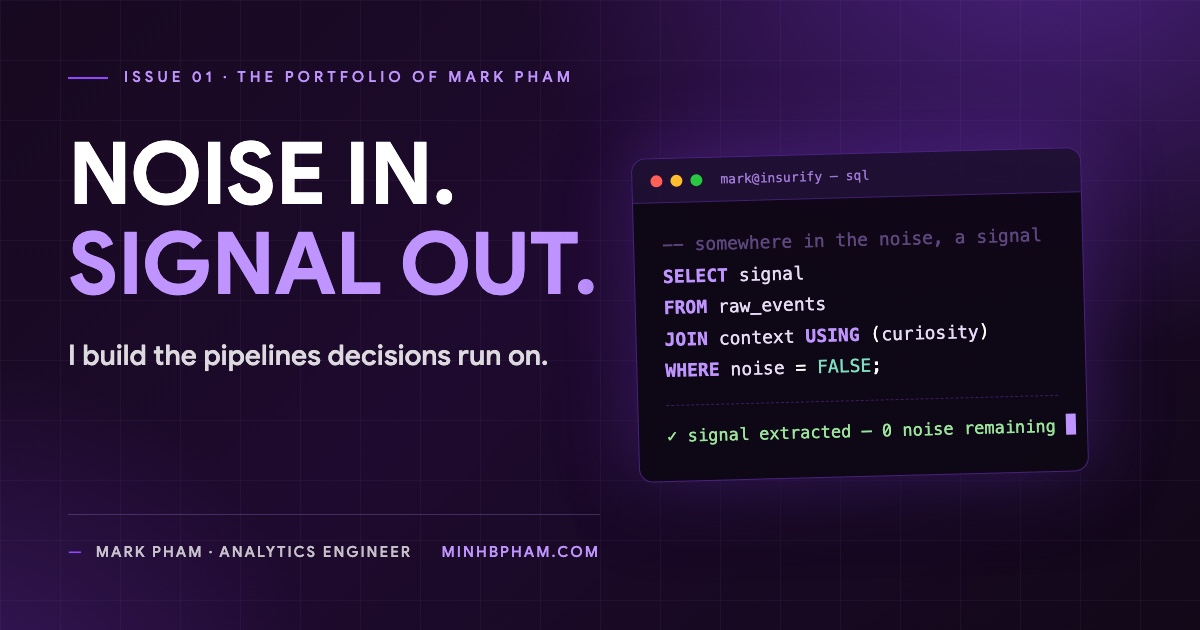
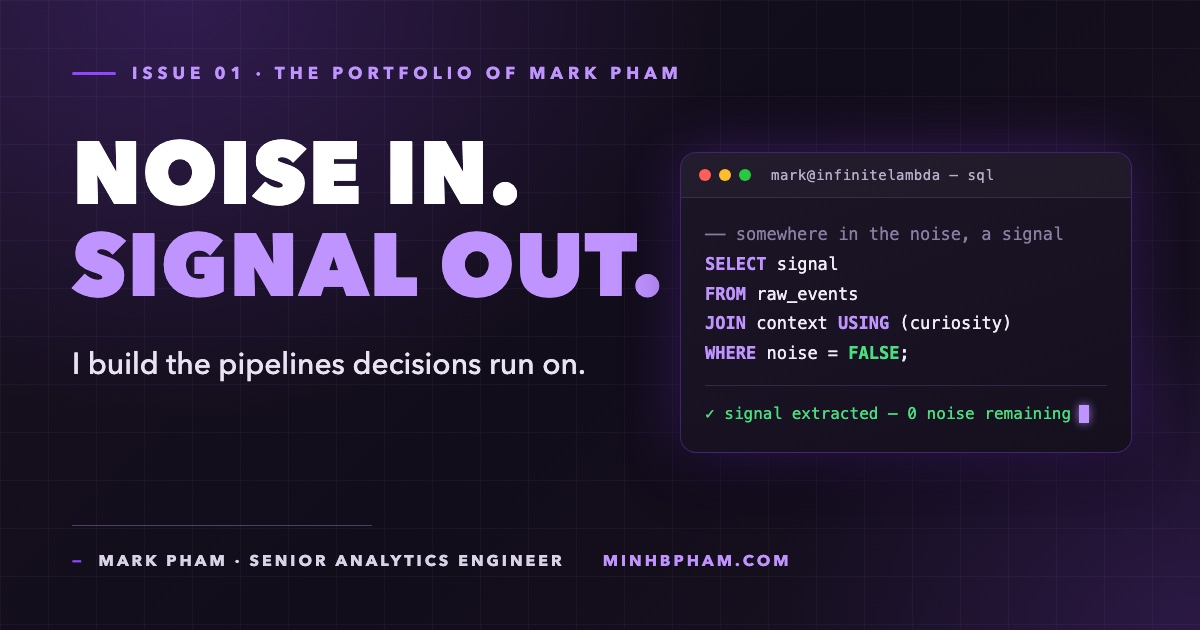
feat(career): Senior Analytics Engineer @ Infinite Lambda (v3.14.0)
- New timeline entry (October 2026, Remote) with infinitelambda.webp logo
- Hero typed strings: role + location (Boston, MA -> Remote)
- Footer identity block, JSON-LD jobTitle/worksFor, og:image alt
- Calendly slug -> calendly.com/minhbpham2003/30min (hero + footer)
- OG preview card regenerated: mark@infinitelambda terminal, senior title, ?v=4
- README byline; version bump v3.14.0

diff --git a/constants.ts b/constants.ts
@@ -375,9 +375,9 @@ export const TESTIMONIAL_THEMES: ITestimonialTheme[] = [
 
 export const TYPED_STRINGS = [
 	'<span style="color:#9146FF">1000+</span> SQL questions solved',
-	'<span style="color:#9146FF">Analytics Engineer</span> @Insurify',
+	'<span style="color:#9146FF">Senior Analytics Engineer</span> @InfiniteLambda',
 	'<span style="color:#9146FF">TCU</span> class of 2025',
-	'<span style="color:#9146FF">Boston, MA</span>',
+	'<span style="color:#9146FF">Remote</span>',
 ];
 
 export const QUOTE_STRINGS = [
@@ -773,6 +773,26 @@ export enum ItemSize {
 }
 
 export const TIMELINE: Array<TimelineNodeV2> = [
+	{
+		type: NodeTypes.CHECKPOINT,
+		title: "October 2026",
+		size: ItemSize.LARGE,
+		shouldDrawLine: false,
+		alignment: Branch.LEFT,
+	},
+	{
+		type: NodeTypes.CHECKPOINT,
+		title: "Senior Analytics Engineer - <a class='underline underline-offset-2' href='https://infinitelambda.com' target='_blank' rel='noopener noreferrer'><u>Infinite Lambda</u></a>",
+		size: ItemSize.SMALL,
+		subtitle: "Data & AI consultancy · Snowflake, dbt & Fivetran partner",
+		location: "Remote",
+		image: "/timeline/infinitelambda.webp",
+		slideImage: "/timeline/infinitelambda.webp",
+		shouldDrawLine: true,
+		alignment: Branch.LEFT,
+		companyLogo: "/timeline/infinitelambda.webp",
+		companyUrl: "https://infinitelambda.com",
+	},
 	{
 		type: NodeTypes.CHECKPOINT,
 		title: "June 2025",

diff --git a/components/common/layout.tsx b/components/common/layout.tsx
@@ -6,16 +6,16 @@ const jsonLd = {
   "@type": "Person",
   name: "Minh (Mark) Pham",
   url: METADATA.siteUrl,
-  jobTitle: "Analytics Engineer",
-  worksFor: { "@type": "Organization", name: "Insurify" },
+  jobTitle: "Senior Analytics Engineer",
+  worksFor: { "@type": "Organization", name: "Infinite Lambda" },
   sameAs: [
     "https://www.linkedin.com/in/minhbphamm/",
     "https://github.com/MarkPhamm",
   ],
 };
 
-const PREVIEW_IMAGE = `${METADATA.siteUrl}/preview.jpg?v=3`;
-const PREVIEW_ALT = "Mark Pham — Analytics Engineer bridging data and actionable insights";
+const PREVIEW_IMAGE = `${METADATA.siteUrl}/preview.jpg?v=4`;
+const PREVIEW_ALT = "Mark Pham — Senior Analytics Engineer bridging data and actionable insights";
 
 interface LayoutProps {
   children: React.ReactNode;

diff --git a/components/common/footer.tsx b/components/common/footer.tsx
@@ -96,9 +96,9 @@ const Footer = () => {
 				I bridge the gap between data and actionable insights.
 			</p>
 			<p className="text-sm text-white/80">
-				Analytics Engineer @ Insurify
+				Senior Analytics Engineer @ Infinite Lambda
 				<br />
-				Boston, MA
+				Remote
 			</p>
 		</div>
 	);
@@ -144,7 +144,7 @@ const Footer = () => {
 			<p className={COLUMN_HEADING}>Connect with me</p>
 			<div className="space-y-2.5 mb-4">
 				<a
-					href="https://calendly.com/minh-pham-insurify/30min"
+					href="https://calendly.com/minhbpham2003/30min"
 					target="_blank"
 					rel="noreferrer"
 					className={FOOTER_LINK}

diff --git a/components/common/header.tsx b/components/common/header.tsx
@@ -34,7 +34,7 @@ const Header = () => {
 							<Image src="/logo.svg" alt="Logo" width={22} height={22} />
 						</a>
 					</Link>
-					<span className="text-[10px] text-white/60 font-mono">v3.13.1</span>
+					<span className="text-[10px] text-white/60 font-mono">v3.14.0</span>
 				</div>
 				<div className="hidden md:flex items-center justify-center">
 					{NAVBARITEMS.map((item: any) => {

diff --git a/components/home/hero.tsx b/components/home/hero.tsx
@@ -321,7 +321,7 @@ const HeroSection = React.memo(() => {
 				</a>
 				<a
 					ref={coffeeCtaRef}
-					href="https://calendly.com/minh-pham-insurify/30min"
+					href="https://calendly.com/minhbpham2003/30min"
 					target="_blank"
 					rel="noreferrer"
 					onClick={() => { trackEvent("coffee_chat_click"); upgradeSession("coffee_chat_click"); }}

diff --git a/VERSION.md b/VERSION.md
@@ -2,6 +2,7 @@
 
 | Version | Date | Changes |
 |---------|------|---------|
+| v3.14.0 | 2026-08-10 | Job transition: Analytics Engineer @ Insurify → **Senior Analytics Engineer @ Infinite Lambda** (infinitelambda.com, Data & AI consultancy; start October 2026, Remote). New TIMELINE entry (Oct 2026 header + role card, `/timeline/infinitelambda.webp` — root `infinite_lambda.png` flattened to white via sips → cwebp q80, source kept per convention), hero TYPED_STRINGS role + location (`Boston, MA` → `Remote`), footer identity block, JSON-LD `jobTitle`/`worksFor`, `PREVIEW_ALT`, README byline. Calendly slug swapped to `calendly.com/minhbpham2003/30min` (hero + footer). OG card regenerated from scratch (no script survived v3.11.7): same NOISE IN. / SIGNAL OUT. design, terminal retitled `mark@infinitelambda — sql`, footer line now SENIOR ANALYTICS ENGINEER; cache-buster `?v=4`. Insurify keeps its past-role timeline entry, testimonials, and pipeline DAG untouched. TODO: `public/minh_pham_resume.pdf` still says Insurify — manual swap needed. |
 | v3.13.1 | 2026-08-10 | Remove the Bookshelf section (Mark, with a screenshot: "remove this") — the placeholder shelf never got real books and the coverless gradient spines looked unfinished. Deleted `favorite-books.tsx`, `IBook`/`FAVORITE_BOOKS` from constants, and the page wiring; filter counts now span articles + publications only. Everything else from v3.13.0 stays. |
 | v3.13.0 | 2026-08-10 | Reads page feature batch (Mark: "suggest some UI/UX improvement/new feature on the reading section" — approved all seven). **Category filter**: pill row under the hero filters all sections at once, per-category accent colors (`READ_CATEGORY_COLORS`, FOLDER_COLORS spirit), counts on each pill, empty sections hidden, `reads_filter` tracked. **"My Take" annotations**: new optional `take` field renders an italic purple `»` one-liner — hover-reveal on desktop, always visible on mobile (cards are links; tap-toggle would fight navigation). **Status badges**: new `status` field — "Currently reading" with pulsing dot, "★ Must-read". **Surprise me**: terminal chip in the hero (`$ shuf reads.txt -n 1` 🎲) smooth-scrolls to a random card and ring-pulses it. **Bookshelf**: new `FavoriteBooks` horizontal scroll-snap shelf of portrait 2/3 covers with gradient spine fallback (`FAVORITE_BOOKS` seeded with placeholders — Mark to swap in his real shelf + covers in `/public/reads/books/`). **Overflow**: publications grid caps at 6 with "Show all N →" expander; item counts next to every section heading. **Hero**: "Last updated Aug 2026" line (`READS_LAST_UPDATED`). GSAP gotcha handled: after the first filter interaction sections skip their `once` scroll-in so re-rendered cards below the fold can't stick at opacity 0. |
 | v3.12.0 | 2026-08-10 | Passion page polish sweep (Mark: "look at the passion session, suggest improvement on the UI/Design") — brings `/aboutme/passion` up to startup-page polish. **Theme-leak fixes**: scroll progress bar, text selection, and the Collaboration marquee were still purple on the orange-themed pages — now scoped orange under `.theme-orange` (marquee de-hardcoded to a `.collab-marquee` class; homepage stays purple). **Visual rhythm**: orange hairline dividers close each dish section, ambient floating orange blobs behind the content (startup parity), consistent `space-y-16` card stacking, closing-quote double-padding fixed. **Hero mobile**: h1 stepped down `text-6xl→text-4xl` base (matched startup's ramp, was wrapping 3–4 lines at 375px), `min-h-[480px]` on short phones, typed tagline container reserves wrap space so the layout stops jumping. **Interaction**: seafood cards drop the false `cursor-pointer`, gain hover-lift + orange border (captions slide up on hover); DishCards get the startup border/shadow hover treatment (pointless hover gradient deleted); filter timeout now cleaned up and filtering from deep scroll returns you to the tabs; new gradient "My Startup Story →" CTA after the quote. **A11y**: `prefers-reduced-motion` gates parallax/typed.js/reveals, `aria-pressed` filter tabs, sr-only tagline fallback, `<main>` landmark, captions/blockquote `gray-400→gray-300` for AA contrast, decorative glyphs `aria-hidden`. Plus `sizes` on DishCard images. |

diff --git a/README.md b/README.md
@@ -2,7 +2,7 @@
 
 [![License: MIT](https://img.shields.io/badge/License-MIT-yellow.svg)](https://opensource.org/licenses/MIT)
 
-Personal portfolio of **Minh (Mark) Pham**, Analytics Engineer — live at [minhbpham.com](https://minhbpham.com).
+Personal portfolio of **Minh (Mark) Pham**, Senior Analytics Engineer — live at [minhbpham.com](https://minhbpham.com).
 
 ## Stack
 
